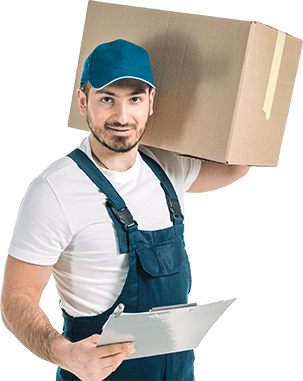
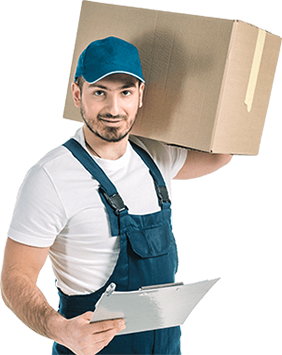
resize photo

diff --git a/index.html b/index.html
@@ -158,7 +158,7 @@
           <div class="hero-content">
 
             <h2 class="h1 hero-title">
-              <span class="span">Mutăm </span> grijile tale
+              <span class="span">Mutam </span> grijile tale
             </h2>
 
             <p class="hero-text">
@@ -740,7 +740,7 @@
         <div class="container">
 
           <figure class="newsletter-banner img-holder">
-            <img src="./assets/images/newsletter-banner.png" width="303" height="381" alt="banner-contact-transport-marfa"
+            <img src="./assets/images/newsletter-banner.png" loading="lazy" width="303" height="381" alt="banner-contact-transport-marfa"
               class="w-100">
           </figure>
 
